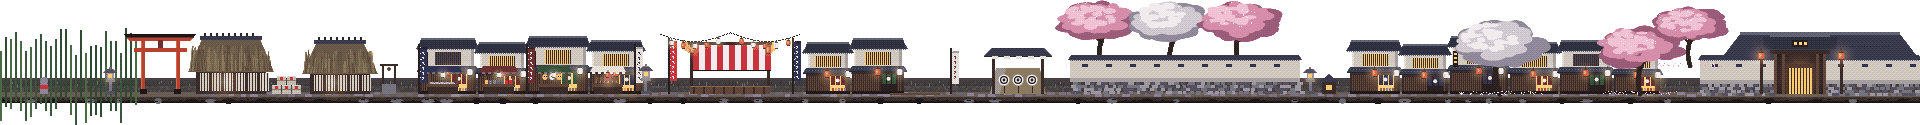
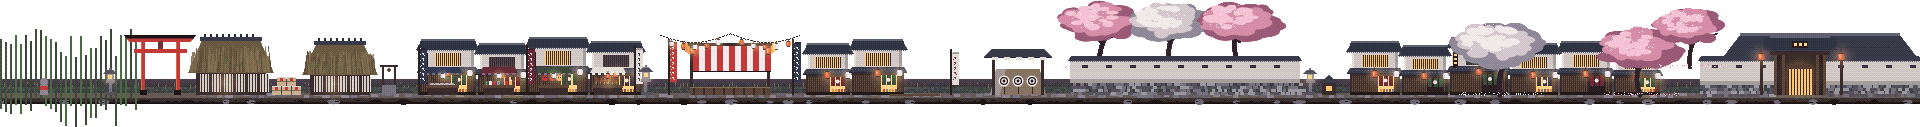
Hara Kei's village: Mount Yotei, more of the town, blossom, uneasy lights
The village walk's distance is repainted: Mount Yotei fills the far sky,
snow down its upper slopes in gullies over dark rock and forest, under
a dusk gone the colour of wine with a pale reddish moon. In front, the
castle hill now carries the keep and a smaller keep, walls with corner
turrets, temple roofs on terraces, two pagodas and a torii, with pink
and white blossom among the pines; the upper town crowds up the slope
with nearly every window lit, lantern strings, a temple, a third
pagoda and crows on the ridges; nearer, the roofs have red lanterns at
their doors and the blossom is thicker. The fog takes on the dusk's
rose. Everything on the street is where it was.

Claude-Session: https://claude.ai/code/session_01ArXuBwaG3Lco7dyqGyZYkQ

diff --git a/tools/paint/walks.js b/tools/paint/walks.js
@@ -476,73 +476,104 @@ WALKS.steppe = (c, L) => {
 // The fog, the falling petals, the people, the arrows and the drums are the walk's.
 WALKS.village = (c, L) => {
   const r = rng(421);
-  const FOG = '#a898ac';
-  vgrad(c, 0, 0, 480, WY, [[0, '#1a1830'], [0.35, '#35304e'], [0.62, '#645676'], [0.86, '#9a8a9e'], [1, '#b8a8b4']]);
-  circle(c, 372, 52, 11, '#e6dce4'); glow(c, 372, 52, 60, 'rgba(230,220,235,0.35)');
+  const HAZE = (a) => `rgba(140,84,100,${a})`;
+  // the last of the sunset, gone the colour of wine; a pale moon with a reddish ring
+  vgrad(c, 0, 0, 480, WY, [[0, '#120c20'], [0.28, '#2a1834'], [0.5, '#4e2238'], [0.7, '#80343a'], [0.86, '#b45a3c'], [1, '#d07a48']]);
+  glow(c, 240, 190, 260, 'rgba(255,120,60,0.28)');
+  circle(c, 414, 38, 8, '#ecd4cc'); circle(c, 416, 37, 7, '#f4e2da'); glow(c, 414, 38, 46, 'rgba(240,170,150,0.32)');
+  stars(c, r, 14, 0, 0, 480, 40, '#e8d8e8');
   c.clearRect(0, WY, 480, H - WY);
   const cl = L('clouds', { depth: 0.04, anim: { type: 'drift', t: 360 } });
   wrapped(cl, 141, (cc, rr) => {
-    for (const [x, y, w, h] of [[30, 30, 170, 7], [240, 64, 190, 6], [380, 20, 120, 5]]) cloudBand(cc, rr, x, y, w, h, { body: '#2e2a44', rim: '#7a6a8c', shadow: '#221f36', hi: '#a896b0', lightFromBelow: true });
+    for (const [x, y, w, h] of [[20, 26, 180, 8], [250, 58, 200, 7], [390, 16, 130, 5], [110, 84, 150, 5]]) cloudBand(cc, rr, x, y, w, h, { body: '#2a1626', rim: '#c0583a', shadow: '#1a0e1a', hi: '#e8884a', lightFromBelow: true });
   });
-  // mountains behind mountains, fading into the mist
+  // Mount Yōtei, filling the far sky: snow on its shoulders catching the last light
   const pk = L('peaks', { depth: 0.03 });
   const px1 = S(0.03);
-  ridge(pk, r, 150, 70, '#6a5e7c', { x1: px1, peak: [180, 60, 26] });
-  ridge(pk, r, 162, 50, '#7c7090', { x1: px1 });
-  pk.save(); pk.globalCompositeOperation = 'source-atop'; vgrad(pk, 0, 90, px1, 90, [[0, 'rgba(168,152,172,0)'], [1, 'rgba(168,152,172,0.85)']]); pk.restore();
-  // the castle hill, dark with pines, the white keep on its stone base at the top, a pagoda
+  ridge(pk, r, 176, 34, '#4a2a40', { x1: px1 });
+  jpYotei(pk, r, 206, 170, 480, 146, { rock: '#2e2030', rockMid: '#43283a', rockLit: '#5a3040', snow: '#b48c9a', snowLit: '#eab4a8', snowShade: '#6a5a7c', forest: '#1e1422', haze: HAZE(0.85) });
+  ridge(pk, r, 182, 18, '#3a2234', { x1: px1 });
+  pk.save(); pk.globalCompositeOperation = 'source-atop'; vgrad(pk, 0, 140, px1, 50, [[0, HAZE(0)], [1, HAZE(0.7)]]); pk.restore();
+  // the castle hill: pines and cherry trees in blossom, the white keep and its little keep, the walls
+  // with their turrets, two pagodas, temple roofs on the terraces; lights coming on everywhere
   const ca = L('castle', { depth: 0.08 });
   const cx1 = S(0.08);
-  const fnK = vProfile([[-10, 186], [80, 168], [150, 150], [240, 124], [300, 108], [370, 108], [440, 130], [520, 150], [cx1 + 10, 170]]);
-  vLand(ca, fnK, -10, cx1 + 10, 200, '#3e3a50');
-  for (let i = 0; i < 90; i++) { const x = r.r(0, cx1), y = fnK(x) + r.r(2, 40); pine(ca, r, x, y, r.r(12, 22), { trunk: '#2a2634', leaves: ['#2a2a3c', '#343448', '#484a5e'] }, r() < 0.5 ? 1 : -1); }
-  const CP = { stone: '#8a8694', stoneLit: '#aaa6b2', stoneDark: '#66626e', wall: '#e2dee4', wallLit: '#f4f0f4', wallShade: '#b8b2c0', board: '#2e2c3a', window: '#4a4658', lit: '#ffd08a', roof: '#3a3c50', roofLit: '#6a6e84', gold: '#e0b850' };
-  const ct = jpCastle(ca, r, 336, 110, 0.95, CP);
-  for (const [yx, yy] of [[268, 118], [410, 118]]) { rect(ca, yx - 8, yy - 12, 16, 12, CP.wall); rect(ca, yx - 8, yy - 4, 16, 4, CP.board); poly(ca, [[yx - 11, yy - 12], [yx + 11, yy - 12], [yx + 6, yy - 17], [yx - 6, yy - 17]], CP.roof); }
-  rect(ca, 276, 112, 126, 3, CP.wall); rect(ca, 276, 110, 126, 2, CP.roof);
-  pagoda(ca, 112, fnK(112) + 2, 3.2, '#3e3a50', '#7a7090');
-  for (let k = 0; k < 6; k++) px(ca, 112 + r.r(-8, 8), fnK(112) - r.r(10, 60), '#ffc870');
-  ca.save(); ca.globalCompositeOperation = 'source-atop'; vgrad(ca, 0, 110, cx1, 90, [[0, 'rgba(168,152,172,0.1)'], [1, 'rgba(168,152,172,0.8)']]); ca.restore();
-  // the upper town on its terraces, lights in the windows, cherry blossom between the roofs
+  const fnK = vProfile([[-10, 186], [80, 166], [150, 150], [250, 126], [310, 112], [410, 112], [480, 132], [560, 150], [cx1 + 10, 168]]);
+  vLand(ca, fnK, -10, cx1 + 10, 200, '#2e2232');
+  for (let i = 0; i < 70; i++) { const x = r.r(0, cx1), y = fnK(x) + r.r(4, 46); pine(ca, r, x, y, r.r(10, 18), { trunk: '#1e1622', leaves: ['#1e1a28', '#2a2434', '#3a3244'] }, r() < 0.5 ? 1 : -1); }
+  for (let i = 0; i < 60; i++) { const x = r.r(0, cx1), y = fnK(x) + r.r(6, 50); crown(ca, r, x, y, r.r(5, 10), r.r(4, 7), r() < 0.6 ? ['#6a3048', '#a8587a', '#d88aa8', '#f4c0d0'] : ['#6a6070', '#a8a0b0', '#d8d0dc', '#f4eef4'], { x: -0.6, y: -0.8 }, 16); }
+  // terraced walls up the hill
+  for (const [x0, x1, y] of [[140, 290, 152], [200, 300, 136], [420, 560, 140], [430, 520, 126]]) { rect(ca, x0, y, x1 - x0, 3, '#6a5e6a'); rect(ca, x0, y, x1 - x0, 1, '#8a7e86'); }
+  // temple roofs on the terraces
+  for (const [x, y, w] of [[168, 150, 30], [236, 134, 26], [470, 138, 34], [520, 152, 26]]) { rect(ca, x, y - 6, w, 6, '#4a3a44'); poly(ca, [[x - 4, y - 6], [x + w + 4, y - 6], [x + w - 2, y - 11], [x + 2, y - 11]], '#221a26'); jpLights(ca, r, x + 2, y - 3, w - 4, 2); }
+  const CP = { stone: '#6e6270', stoneLit: '#8e8290', stoneDark: '#4e4452', wall: '#d6c8cc', wallLit: '#ecdcdc', wallShade: '#a4949e', board: '#241c28', window: '#3a2e3a', lit: '#ffb860', roof: '#2a2434', roofLit: '#5a4e62', gold: '#e0a848' };
+  const ct = jpCastle(ca, r, 384, 112, 0.92, CP);
+  jpCastle(ca, r, 284, 128, 0.5, CP);
+  jpLights(ca, r, 352, 76, 64, 10, { cols: ['#ffb050', '#ff8a3a'] });
+  // the walls along the crest, with corner turrets
+  rect(ca, 250, 114, 180, 3, CP.wall); rect(ca, 250, 112, 180, 2, CP.roof);
+  for (const [yx, yy] of [[250, 120], [430, 120], [470, 132]]) { rect(ca, yx - 8, yy - 12, 16, 12, CP.wall); rect(ca, yx - 8, yy - 4, 16, 4, CP.board); poly(ca, [[yx - 11, yy - 12], [yx + 11, yy - 12], [yx + 6, yy - 17], [yx - 6, yy - 17]], CP.roof); rect(ca, yx - 2, yy - 9, 4, 2, '#ffb050'); }
+  pagoda(ca, 104, fnK(104) + 2, 3.4, '#2a2232', '#6a4a5a');
+  pagoda(ca, 560, fnK(560) + 2, 2.8, '#2a2232', '#6a4a5a');
+  for (const px_ of [104, 560]) for (let k = 0; k < 6; k++) rect(ca, px_ - 1, fnK(px_) - 6 - k * 9.5, 2, 1, '#ffb050');
+  jpTorii(ca, 196, fnK(196) + 2, 0.7);
+  jpLights(ca, r, 0, 150, cx1, 50, {});
+  for (let i = 0; i < 26; i++) { const x = r.r(0, cx1); glow(ca, x, fnK(x) + r.r(8, 40), 8, 'rgba(255,130,50,0.4)'); }
+  ca.save(); ca.globalCompositeOperation = 'source-atop'; vgrad(ca, 0, 110, cx1, 90, [[0, HAZE(0.08)], [1, HAZE(0.75)]]); ca.restore();
+  // the upper town on its terraces: roofs crowding up the slope, nearly every window lit, cherry
+  // and white blossom between the roofs, strings of lanterns, a temple and a third pagoda
   const up = L('uptown', { depth: 0.2 });
   const ux1 = S(0.2);
   const fnU = vProfile([[-10, 176], [120, 160], [260, 150], [400, 156], [560, 146], [700, 158], [ux1 + 10, 164]]);
-  vLand(up, fnU, -10, ux1 + 10, 205, '#4a4458');
-  for (let x = 0; x < ux1; x += 50) { rect(up, x, fnU(x) + 6, 46, 2, '#6a6678'); }
+  vLand(up, fnU, -10, ux1 + 10, 205, '#3a2c3a');
+  for (let x = 0; x < ux1; x += 50) { rect(up, x, fnU(x) + 6, 46, 2, '#5a4a58'); }
   const roofs = [];
-  for (let i = 0; i < 70; i++) { const w = r.i(12, 22), x = r.r(-10, ux1), yb = Math.max(fnU(x), fnU(x + w)) + r.r(4, 34); roofs.push([x, w, yb]); }
+  for (let i = 0; i < 95; i++) { const w = r.i(12, 22), x = r.r(-10, ux1), yb = Math.max(fnU(x), fnU(x + w)) + r.r(4, 34); roofs.push([x, w, yb]); }
   roofs.sort((p, q) => p[2] - q[2]);
   for (const [x, w, yb] of roofs) {
     const hh = r.i(7, 11);
-    rect(up, x, yb - hh, w, hh, '#8a8494');
-    if (r() < 0.6) rect(up, x + 2, yb - hh + 2, r.i(3, 6), 3, r() < 0.7 ? '#ffc070' : '#4a4658');
-    poly(up, [[x - 3, yb - hh], [x + w + 3, yb - hh], [x + w - 2, yb - hh - 5], [x + 2, yb - hh - 5]], '#363448');
-    if (r() < 0.2) crown(up, r, x + w + 4, yb - 8, r.r(5, 9), r.r(4, 6), r() < 0.6 ? JP.sakura : JP.blossomWhite, { x: -0.6, y: -0.8 }, 10);
+    rect(up, x, yb - hh, w, hh, '#7a6a76');
+    if (r() < 0.8) { const lw = r.i(3, 6); rect(up, x + 2, yb - hh + 2, lw, 3, r() < 0.85 ? r.pick(['#ffb050', '#ff9a40', '#ffc870']) : '#3a2e3a'); if (r() < 0.4 && w > 14) rect(up, x + w - 6, yb - hh + 2, 3, 3, '#ffa848'); if (r() < 0.5) glow(up, x + 4, yb - hh + 3, 10, 'rgba(255,130,50,0.35)'); }
+    poly(up, [[x - 3, yb - hh], [x + w + 3, yb - hh], [x + w - 2, yb - hh - 5], [x + 2, yb - hh - 5]], '#2a2232');
+    if (r() < 0.3) jpCrow(up, x + r.r(3, w - 3), yb - hh - 5, r() < 0.5 ? 1 : -1);
+    if (r() < 0.42) crown(up, r, x + w + 4, yb - 9, r.r(6, 11), r.r(5, 8), r() < 0.6 ? JP.sakura : JP.blossomWhite, { x: -0.6, y: -0.8 }, 16);
   }
-  up.save(); up.globalCompositeOperation = 'source-atop'; vgrad(up, 0, 130, ux1, 80, [[0, 'rgba(168,152,172,0.15)'], [1, 'rgba(168,152,172,0.6)']]); up.restore();
-  // nearer: the town's roofs, the temple and its pagoda, the fire-watch tower, pines and cherries
+  rect(up, 300, fnU(300) - 2, 60, 14, '#5a4a54'); poly(up, [[292, fnU(300) - 2], [368, fnU(300) - 2], [356, fnU(300) - 14], [304, fnU(300) - 14]], '#221a28'); jpLights(up, r, 304, fnU(300) + 4, 52, 6);
+  pagoda(up, 652, fnU(652) + 6, 3, '#2a2232', '#6a4a5a');
+  for (let x = 20; x < ux1 - 60; x += r.r(80, 140)) jpLanternString(up, x, fnU(x) + 8, x + 50, fnU(x + 50) + 9, 6, ['#e8402e', '#ff8a3a', '#f4ecd8']);
+  up.save(); up.globalCompositeOperation = 'source-atop'; vgrad(up, 0, 130, ux1, 80, [[0, HAZE(0.12)], [1, HAZE(0.55)]]); up.restore();
+  // nearer: the town's roofs, the temple and its pagoda, the fire-watch tower, cherry and white
+  // blossom thick between them, pines, red lanterns at the doors, crows on the ridges
   const mid = L('mid', { depth: 0.45 });
   const mx1 = S(0.45);
-  vgrad(mid, 0, 176, mx1, 20, [[0, '#4e4858'], [1, '#3a3444']]);
+  vgrad(mid, 0, 176, mx1, 20, [[0, '#3e3040'], [1, '#2e2432']]);
   for (let x = -10; x < mx1; x += r.r(24, 46)) {
     const w = r.r(22, 44), hh = r.r(16, 26), yb = 190;
-    rect(mid, x, yb - hh, w, hh, '#6a6474');
-    if (r() < 0.7) rect(mid, x + w * 0.3, yb - hh + 4, w * 0.4, 5, r() < 0.7 ? '#ffc070' : '#3e3a4a');
-    poly(mid, [[x - 4, yb - hh], [x + w + 4, yb - hh], [x + w - 3, yb - hh - 8], [x + 3, yb - hh - 8]], '#2e2c3e');
-    rect(mid, x + 2, yb - hh - 9, w - 4, 1, '#56546a');
+    rect(mid, x, yb - hh, w, hh, '#5a4a58');
+    if (r() < 0.85) { rect(mid, x + w * 0.3, yb - hh + 4, w * 0.4, 5, r() < 0.85 ? '#ffaa50' : '#3a2e3a'); glow(mid, x + w * 0.5, yb - hh + 6, 14, 'rgba(255,140,60,0.35)'); }
+    poly(mid, [[x - 4, yb - hh], [x + w + 4, yb - hh], [x + w - 3, yb - hh - 8], [x + 3, yb - hh - 8]], '#241c2a');
+    rect(mid, x + 2, yb - hh - 9, w - 4, 1, '#4e4054');
+    if (r() < 0.45) jpChochin(mid, x + w * 0.2, yb - hh + 2, '#d8402e', 0.8);
+    if (r() < 0.25) jpCrow(mid, x + r.r(4, w - 4), yb - hh - 9, r() < 0.5 ? 1 : -1);
   }
-  pagoda(mid, 96, 186, 4, '#2e2c3e', '#6a6680');
-  for (let k = 0; k < 5; k++) rect(mid, 96 - 2, 186 - 12 - k * 22.4, 4, 2, '#ffc070');
+  pagoda(mid, 96, 186, 4, '#241c2a', '#5a4658');
+  for (let k = 0; k < 5; k++) rect(mid, 96 - 2, 186 - 12 - k * 22.4, 4, 2, '#ffb050');
   // the temple hall: a great roof
-  rect(mid, 640, 150, 90, 40, '#5a5464'); for (let k = 650; k < 725; k += 12) rect(mid, k, 162, 6, 20, '#ffb860');
-  poly(mid, [[620, 152], [750, 152], [728, 126], [642, 126]], '#2e2c3e'); rect(mid, 642, 124, 86, 3, '#56546a');
-  poly(mid, [[616, 154], [624, 146], [630, 152]], '#2e2c3e'); poly(mid, [[754, 154], [746, 146], [740, 152]], '#2e2c3e');
+  rect(mid, 640, 150, 90, 40, '#4e4250'); for (let k = 650; k < 725; k += 12) rect(mid, k, 162, 6, 20, '#ffa850');
+  glow(mid, 685, 172, 50, 'rgba(255,140,60,0.4)');
+  poly(mid, [[620, 152], [750, 152], [728, 126], [642, 126]], '#241c2a'); rect(mid, 642, 124, 86, 3, '#4e4054');
+  poly(mid, [[616, 154], [624, 146], [630, 152]], '#241c2a'); poly(mid, [[754, 154], [746, 146], [740, 152]], '#241c2a');
+  jpChochin(mid, 632, 156, '#d8402e', 1.2); jpChochin(mid, 738, 156, '#d8402e', 1.2);
   // the fire-watch tower with its bell
-  for (const k of [-6, 6]) line(mid, 520 + k, 190, 520 + k * 0.4, 110, '#2a2632', 2);
-  for (let y = 120; y < 188; y += 10) line(mid, 514, y, 526, y + 8, '#2a2632', 1);
-  rect(mid, 512, 106, 16, 3, '#2a2632'); poly(mid, [[510, 106], [530, 106], [520, 98]], '#2e2c3e'); ellipse(mid, 520, 103, 2, 2.4, '#b8903a');
-  for (let x = 20; x < mx1; x += r.r(70, 130)) { if (Math.abs(x - 96) < 30 || (x > 600 && x < 760)) continue; if (r() < 0.5) jpSakura(mid, r, x, 192, r.r(40, 56), r() < 0.55 ? JP.sakura : JP.blossomWhite); else pine(mid, r, x, 192, r.r(36, 50), { trunk: '#221c26', leaves: ['#1e2430', '#28303a', '#3a4450'] }, r() < 0.5 ? 1 : -1); }
-  mid.save(); mid.globalCompositeOperation = 'source-atop'; vgrad(mid, 0, 100, mx1, 96, [[0, 'rgba(168,152,172,0.08)'], [1, 'rgba(168,152,172,0.35)']]); mid.restore();
+  for (const k of [-6, 6]) line(mid, 520 + k, 190, 520 + k * 0.4, 110, '#221c28', 2);
+  for (let y = 120; y < 188; y += 10) line(mid, 514, y, 526, y + 8, '#221c28', 1);
+  rect(mid, 512, 106, 16, 3, '#221c28'); poly(mid, [[510, 106], [530, 106], [520, 98]], '#241c2a'); ellipse(mid, 520, 103, 2, 2.4, '#b8903a');
+  jpCrow(mid, 520, 97, 1);
+  // a second pagoda further in, and a torii at the shrine steps
+  pagoda(mid, 960, 186, 3.2, '#241c2a', '#5a4658');
+  jpTorii(mid, 880, 190, 0.9);
+  for (let x = 14; x < mx1; x += r.r(46, 80)) { if (Math.abs(x - 96) < 26 || (x > 610 && x < 760) || Math.abs(x - 960) < 22) continue; if (r() < 0.72) jpSakura(mid, r, x, 192, r.r(44, 62), r() < 0.55 ? JP.sakura : JP.blossomWhite); else pine(mid, r, x, 192, r.r(36, 50), { trunk: '#1c1620', leaves: ['#1a1e28', '#242a34', '#343c48'] }, r() < 0.5 ? 1 : -1); }
+  mid.save(); mid.globalCompositeOperation = 'source-atop'; vgrad(mid, 0, 100, mx1, 96, [[0, HAZE(0.06)], [1, HAZE(0.3)]]); mid.restore();
   // the street itself
   const g = L('ground', { depth: 1 });
   vgrad(g, 0, 186, W, 20, [[0, '#4a4046'], [1, '#342c32']]);

diff --git a/tools/paint/scenes-japan.js b/tools/paint/scenes-japan.js
@@ -239,3 +239,71 @@ function jpGate(c, r, x, yb) {
   rect(c, x - 30, yb - 60, 60, 3, JP.roofLit);
   rect(c, x - 8, yb - 54, 16, 7, '#2a1e18'); for (let k = 0; k < 3; k++) rect(c, x - 6 + k * 5, yb - 52, 3, 3, '#f0d890');
 }
+
+/** Mount Yōtei: a broad, nearly perfect cone with a flattened top, snow down its upper slopes in
+ *  long tongues along the gullies, dark rock ribs showing through, the lit side catching the sunset
+ *  and the far side in blue shadow, dark forest round its foot. cx is the summit, yb the foot, w the
+ *  width at the foot, h the height. P: { rock, rockLit, snow, snowLit, snowShade, forest, haze }. */
+function jpYotei(c, r, cx, yb, w, h, P) {
+  const half = w / 2;
+  const hgt = (x) => {
+    const d = Math.abs(x - cx) / half;
+    if (d >= 1) return 0;
+    const top = 0.07;
+    return h * (d < top ? Math.pow(1 - top, 1.75) - (d < top * 0.55 ? 0.012 : 0) : Math.pow(1 - d, 1.75));
+  };
+  // the gullies, where the snow runs further down in tongues, and the ribs of rock between them
+  const gullies = [];
+  for (let i = 0; i < 30; i++) gullies.push({ x: cx + r.r(-0.92, 0.92) * half * 0.8, wd: r.r(1.5, 4.5), reach: r.r(0.1, 0.32) });
+  const wob = (x) => Math.sin(x * 0.23) * 0.025 + Math.sin(x * 0.61 + 1.3) * 0.018 + Math.sin(x * 1.9) * 0.01;
+  // shading across the cone: lit on the left (the sunset), shade on the right, a soft turn between
+  const tone = (x, y, lit, mid, shade) => {
+    const k = (x - cx) / half + Math.sin(y * 0.7 + x * 0.3) * 0.04;
+    return k < -0.28 ? lit : k < 0.22 ? (k < -0.1 && ((x + y) & 1) ? lit : mid) : (k < 0.32 && ((x + y) & 1) ? mid : shade);
+  };
+  for (let x = Math.floor(cx - half); x <= cx + half; x++) {
+    const H_ = hgt(x);
+    if (H_ <= 0) continue;
+    const top = yb - H_, d = Math.abs(x - cx) / half;
+    // the snow reaches down a fraction of the whole mountain's height, further in a gully
+    let reach = 0.36 + wob(x);
+    for (const g of gullies) { const k = 1 - Math.abs(x - g.x) / g.wd; if (k > 0) reach = Math.max(reach, 0.36 + g.reach * k); }
+    const snowTo = yb - h * (1 - reach);
+    for (let y = Math.floor(top); y < yb; y++) {
+      const inSnow = y < snowTo;
+      const col = inSnow ? tone(x, y, P.snowLit, P.snow, P.snowShade) : tone(x, y, P.rockLit, P.rockLit === P.rock ? P.rock : P.rockMid || P.rock, P.rock);
+      rect(c, x, y, 1, 1, col);
+    }
+    // a speckle of snow below the line, broken patches
+    for (let k = 0; k < 3; k++) { const y = snowTo + r.r(0, h * 0.08); if (y < yb && y > top) px(c, x, y, tone(x, y, P.snow, P.snowShade, P.snowShade)); }
+    void d;
+  }
+  // the lip of the summit and the lit edge
+  for (let x = Math.floor(cx - half * 0.6); x < cx + half * 0.05; x++) { const H_ = hgt(x); if (H_ > 0) px(c, x, yb - H_, P.snowLit); }
+  rect(c, cx - half * 0.065, yb - hgt(cx) - 1, half * 0.13, 1, P.snowLit);
+  // forest round its foot, and the haze rising off the plain
+  for (let x = cx - half; x < cx + half; x += 2) {
+    const H_ = hgt(x);
+    const fh = Math.min(H_, h * 0.2 + Math.sin(x * 0.3) * 3 + Math.sin(x * 0.07) * 4);
+    if (fh > 0) rect(c, x, yb - fh, 2, fh, P.forest);
+    if (r() < 0.6 && fh > 4) poly(c, [[x - 2, yb - fh + 1], [x + 2, yb - fh + 1], [x, yb - fh - r.r(3, 7)]], P.forest);
+  }
+  c.save(); c.globalCompositeOperation = 'source-atop';
+  vgrad(c, cx - half, yb - h * 0.55, w, h * 0.55, [[0, 'rgba(0,0,0,0)'], [1, P.haze]]);
+  c.restore();
+}
+
+/** Windows lit in the dusk, warm, in pairs like eyes; and red paper lanterns. */
+function jpLights(c, r, x, y, w, n, o = {}) {
+  for (let i = 0; i < n; i++) {
+    const lx = x + r.r(0, w), ly = y + r.r(-2, 2);
+    const col = r.pick(o.cols || ['#ffb050', '#ff9a3a', '#ffc870', '#e8742a']);
+    if (r() < 0.45) { rect(c, lx, ly, 1, 1, col); rect(c, lx + 2, ly, 1, 1, col); } else rect(c, lx, ly, r.i(1, 3), 1, col);
+    if (o.glow) glow(c, lx, ly, o.glow, 'rgba(255,140,60,0.35)');
+  }
+}
+
+/** A crow on a ridge or a branch: a small black hunched shape. */
+function jpCrow(c, x, y, dir = 1) {
+  rect(c, x - 1, y - 2, 3, 2, '#0e0a10'); px(c, x + dir * 2, y - 3, '#0e0a10'); px(c, x - dir * 2, y - 1, '#0e0a10'); px(c, x, y, '#0e0a10');
+}

diff --git a/story/walkscenery.js b/story/walkscenery.js
@@ -635,9 +635,9 @@ window.VN_WALKSCENERY = {
    {
     "id": "clouds",
     "x": 0,
-    "y": 17,
+    "y": 13,
     "w": 1920,
-    "h": 52,
+    "h": 75,
     "depth": 0.04,
     "anim": {
      "type": "drift",
@@ -648,9 +648,9 @@ window.VN_WALKSCENERY = {
    {
     "id": "peaks",
     "x": 0,
-    "y": 63,
+    "y": 41,
     "w": 563,
-    "h": 207,
+    "h": 229,
     "depth": 0.03,
     "anim": null,
     "src": "assets/walks/village/peaks.png"
@@ -658,9 +658,9 @@ window.VN_WALKSCENERY = {
    {
     "id": "castle",
     "x": 0,
-    "y": 26,
+    "y": 31,
     "w": 645,
-    "h": 194,
+    "h": 196,
     "depth": 0.08,
     "anim": null,
     "src": "assets/walks/village/castle.png"
@@ -668,9 +668,9 @@ window.VN_WALKSCENERY = {
    {
     "id": "uptown",
     "x": 0,
-    "y": 142,
+    "y": 50,
     "w": 846,
-    "h": 67,
+    "h": 155,
     "depth": 0.2,
     "anim": null,
     "src": "assets/walks/village/uptown.png"
@@ -679,7 +679,7 @@ window.VN_WALKSCENERY = {
     "id": "mid",
     "x": 0,
     "y": 38,
-    "w": 1203,
+    "w": 1199,
     "h": 158,
     "depth": 0.45,
     "anim": null,
@@ -688,19 +688,19 @@ window.VN_WALKSCENERY = {
    {
     "id": "ground",
     "x": 0,
-    "y": 108,
+    "y": 107,
     "w": 1920,
-    "h": 125,
+    "h": 127,
     "depth": 1,
     "anim": null,
     "src": "assets/walks/village/ground.png"
    },
    {
     "id": "front",
-    "x": 0,
-    "y": 235,
-    "w": 1833,
-    "h": 35,
+    "x": 15,
+    "y": 232,
+    "w": 1894,
+    "h": 38,
     "depth": 1.3,
     "anim": {
      "type": "sway",

diff --git a/story/walks.js b/story/walks.js
@@ -277,13 +277,13 @@ window.VN_WALKS = {
     hero: 'traveller', start: 40, weather: 'sakura', weatherCount: 60, accent: '255,196,210',
     water: ['rgba(90,80,110,0.55)', 'rgba(14,10,26,0.92)'],
     hint: 'Follow the lanterns to Hara Kei\'s house →',
-    // dusk, and fog lying between everything: over the mountains, the castle, the upper town, the roofs, the street
+    // dusk gone red, and fog lying between everything, tinged with it: over the mountains, the castle, the upper town, the roofs, the street
     fog: [
-      { z: 0.05, y: 146, h: 80, alpha: 0.85, speed: 2, col: '196,182,200' },
-      { z: 0.1, y: 166, h: 56, alpha: 0.8, speed: 3, col: '196,182,200' },
-      { z: 0.25, y: 172, h: 48, alpha: 0.75, speed: 4.5, col: '200,188,204' },
-      { z: 0.6, y: 184, h: 36, alpha: 0.6, speed: 7, col: '206,196,210' },
-      { front: true, z: 1, y: 202, h: 24, alpha: 0.45, speed: 10, col: '214,204,218' },
+      { z: 0.05, y: 150, h: 70, alpha: 0.7, speed: 2, col: '176,120,130' },
+      { z: 0.1, y: 168, h: 52, alpha: 0.7, speed: 3, col: '170,118,128' },
+      { z: 0.25, y: 174, h: 46, alpha: 0.7, speed: 4.5, col: '168,124,134' },
+      { z: 0.6, y: 184, h: 36, alpha: 0.55, speed: 7, col: '172,134,142' },
+      { front: true, z: 1, y: 202, h: 24, alpha: 0.4, speed: 10, col: '184,150,156' },
     ],
     // archers at the butts, each loosing an arrow in turn
     range: { kind: 'bow', look: 'archer', x: [896, 912, 928], y: 204, targets: [1004, 1018, 1032], ty: 188, period: [1.4, 2.2], pause: [3, 5] },
